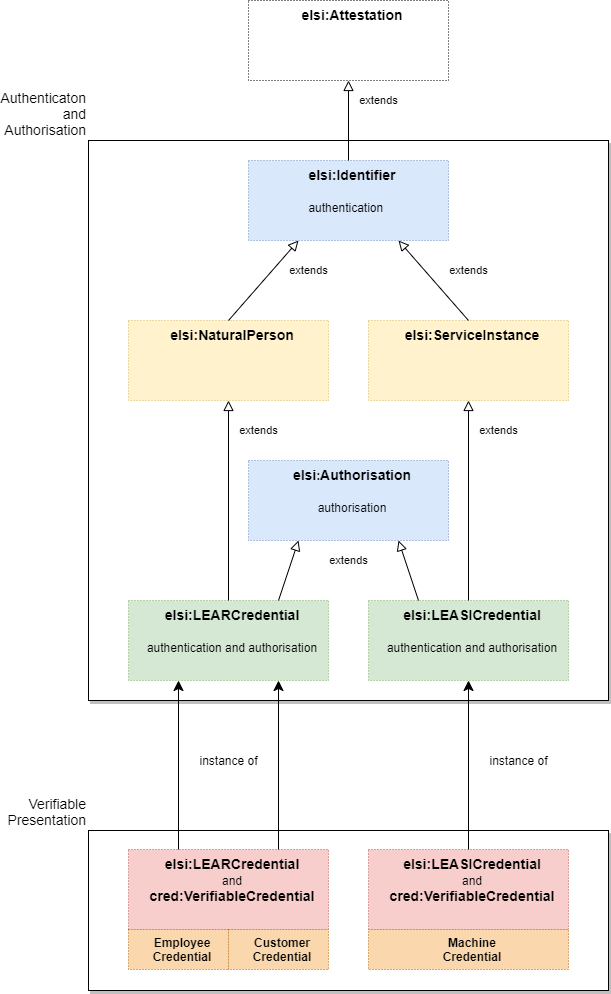
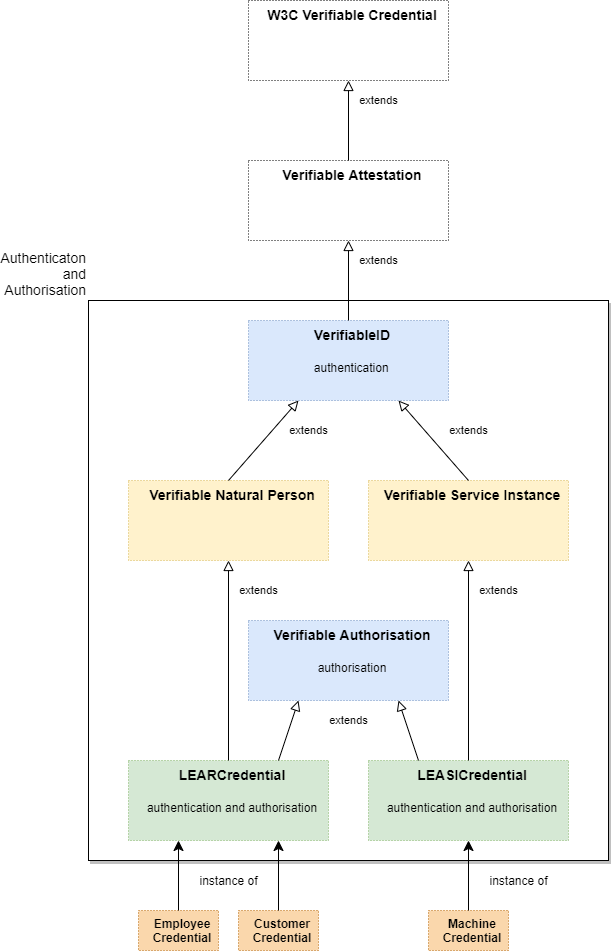
v3

diff --git a/misc/credential/elsi/v1/README.md b/misc/credential/elsi/v1/README.md
@@ -1,21 +1,115 @@
-# ELSI version 1 (v1)
+# ELSI
+
+> > > **CAUTION**
+>
+> - all definitions sometimes are a *little bit underspecified* :-(
+> - all specification might contain *bugs*, that will be eliminated in future :-)
+> - current status is something like a **draft**
+> - ...hopefully being a good starting point
+> - so far **NOT** usable for production!
+>
+> > > **CAUTION**
+
+J. Langkau
+
+---
 
 - prefix: `elsi`
-- uri: "elsi"
+- uri: "https://github.com/nicosResearchAndDevelopment/LDS/blob/main/misc/credentials/elsi/v1/"
 - did method `elsi`
 
+## See also
+
+- [Authentication and authorization of entities acting on behalf of legal persons with Verifiable Credentials under eIDAS framework](https://alastria.github.io/did-method-elsi/authn.html).
+    - Jesus Ruiz
+    - The DOME project participants
+
+- [DID ETSI Legal person Semantic Identifier Method Specification (did:elsi)](https://alastria.github.io/did-method-elsi/)
+    - Jesus Ruiz (JesusRuiz)
+    - Alejandro Nieto (DigitelTS)
+    - Alejandro Alfonso (DigitelTS)
+    - Oriol Canades (IN2)
+    - Jörg Langkau (nicos AG)
+
+- ["Extending Actor Models in Data Spaces", (2023)](https://www.researchgate.net/publication/370414004_Extending_Actor_Models_in_Data_Spaces)).
+
+    - zum Felde
+    - Bellebaum
+    - Brost
+    - Kollenstraat
+    - Dalmolen
+
+## Model
+
+Given model (following version 3 so far) is very aligned to semantics of
+
+- oid
+- ETSI-ESI
+- eIDAS (certificates)
+
+Expression of given Subject (*Natural Person* (version 1) and  *Service
+Instance* (version 2, 3)) the semantics fit to given X.509-subject properties, those are well known, well defined, stable and borrowed from X.500, etc. It drills down the problem of "many cooks have many ingredients", but they are strictly bound (`skos.relation`) to ETSI-ESI/eIADS. 
+
+`oid`: see an example here
+
+- here: ["organizationIdentifier", (http://oid-info.com/cgi-bin/display?oid=2.5.4.97)](http://oid-info.com/cgi-bin/display?oid=2.5.4.97)
+- *or*
+- here: ["organizationIdentifier", (https://oidref.com/2.5.4.97)](https://oidref.com/2.5.4.97)
+
+All version are based on this. Differences between those are not such big, following the same idea of "given Agent acts on behalf". (See also ["Extending Actor Models in Data Spaces", (2023)](https://www.researchgate.net/publication/370414004_Extending_Actor_Models_in_Data_Spaces)).
+
+Information Model, at this time in `turtle` (`json-ld-@context-thingy` will follow), please click here: [elsi.ttl (Buy it now!!! Fresh version 3!!!)](./elsi.ttl).
 
 ## Version 1
 
-![image](./image/elsi.png)
+Jesus Ruiz, Alastria
 
-*Overview of "elsi v1"*
+- the concept of "Legal Entity Appointed Representative" (as given credential "**LEARCredential
+  **") inspired by European Commission's idea of agent *LEAR*.
+
+Picture taken from [Authentication and authorization of entities acting on behalf of legal persons with Verifiable Credentials under eIDAS framework (Jesus Ruiz)](https://alastria.github.io/did-method-elsi/authn.html).
+
+![image](https://alastria.github.io/did-method-elsi/builtassets/plantuml_47747c7c84b49ce4c8b0f3159b566ffc.png)
 
 ## Version 2
+
+Jörg Langkau, nicos AG
+
+This version ("derived" from Jesus' Ruiz Version 1) introduces:
+
+- layer (yellow) of *Verifiable Natural
+  Person* ([ETSI-ESI- and eIDAS-alignment](https://www.etsi.org/deliver/etsi_ts/119600_119699/119612/02.01.01_60/ts_119612v020101p.pdf)) and
+  *Verifiable Service Instance*.
+- decouples the *Verifiable Authorisation*.
+    - ...it makes it `optional` to given credentials **LEARCredential** and **LEASICredential**.
+- the concept of "Legal Entity Appointed Service Instance" (**LEASICredential**, spoken: "
+  *Lizzy*"), a given Service Instance 'acts on behalf' another agent, a *Legal Entity*.
 
 ![image](./image/elsi.v2.png)
 
 *Overview of "elsi v2"*
+
+## Version 3
+
+Langkau, nicos AG
+
+This version ("derived" from Version 2) decouples *Verifiable Attestation* from class [*Verifiable
+Credential*](https://www.w3.org/TR/vc-data-model-2.0/) (with new naming *Attestation*):
+
+Pros:
+
+- not strictly bound to `cred:VerifiableCredential`
+- works "stand alone"
+- can be used in other use cases, too!
+- maximum flexibility
+
+![image](./image/elsi.v3.png)
+
+*Overview of "elsi v3"*
+
+## Version 1, 2 and 3
+
+All do the same (from the perspective of class **LearCredential**).
 
 ## Protocol
 
